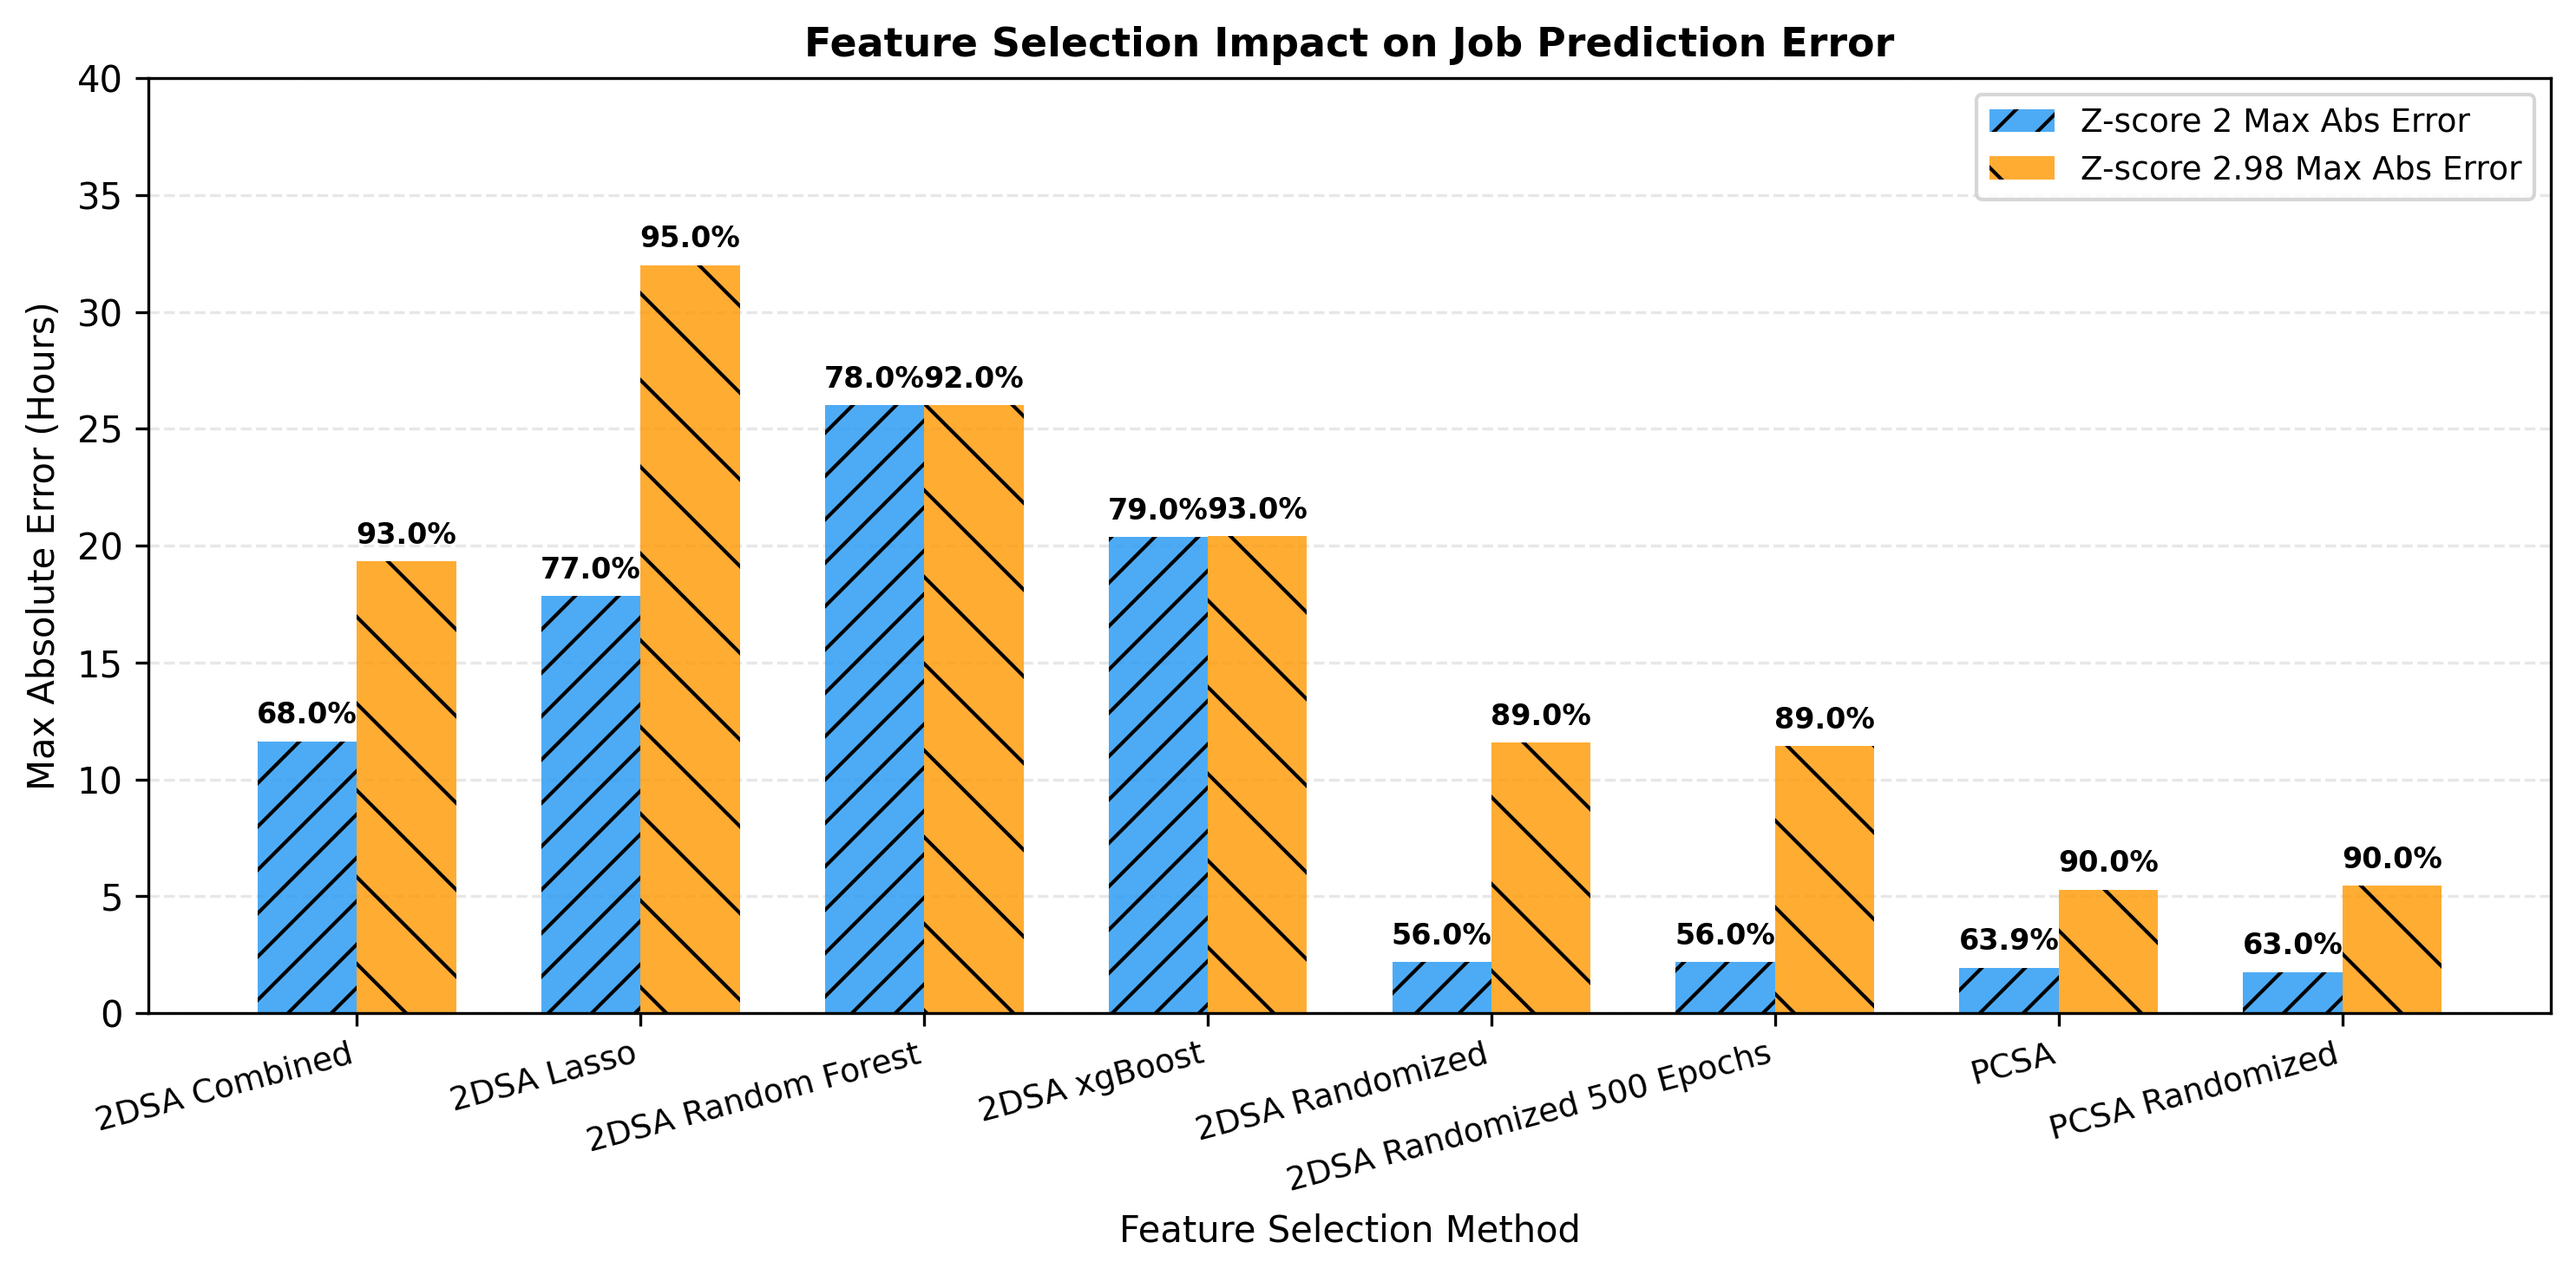
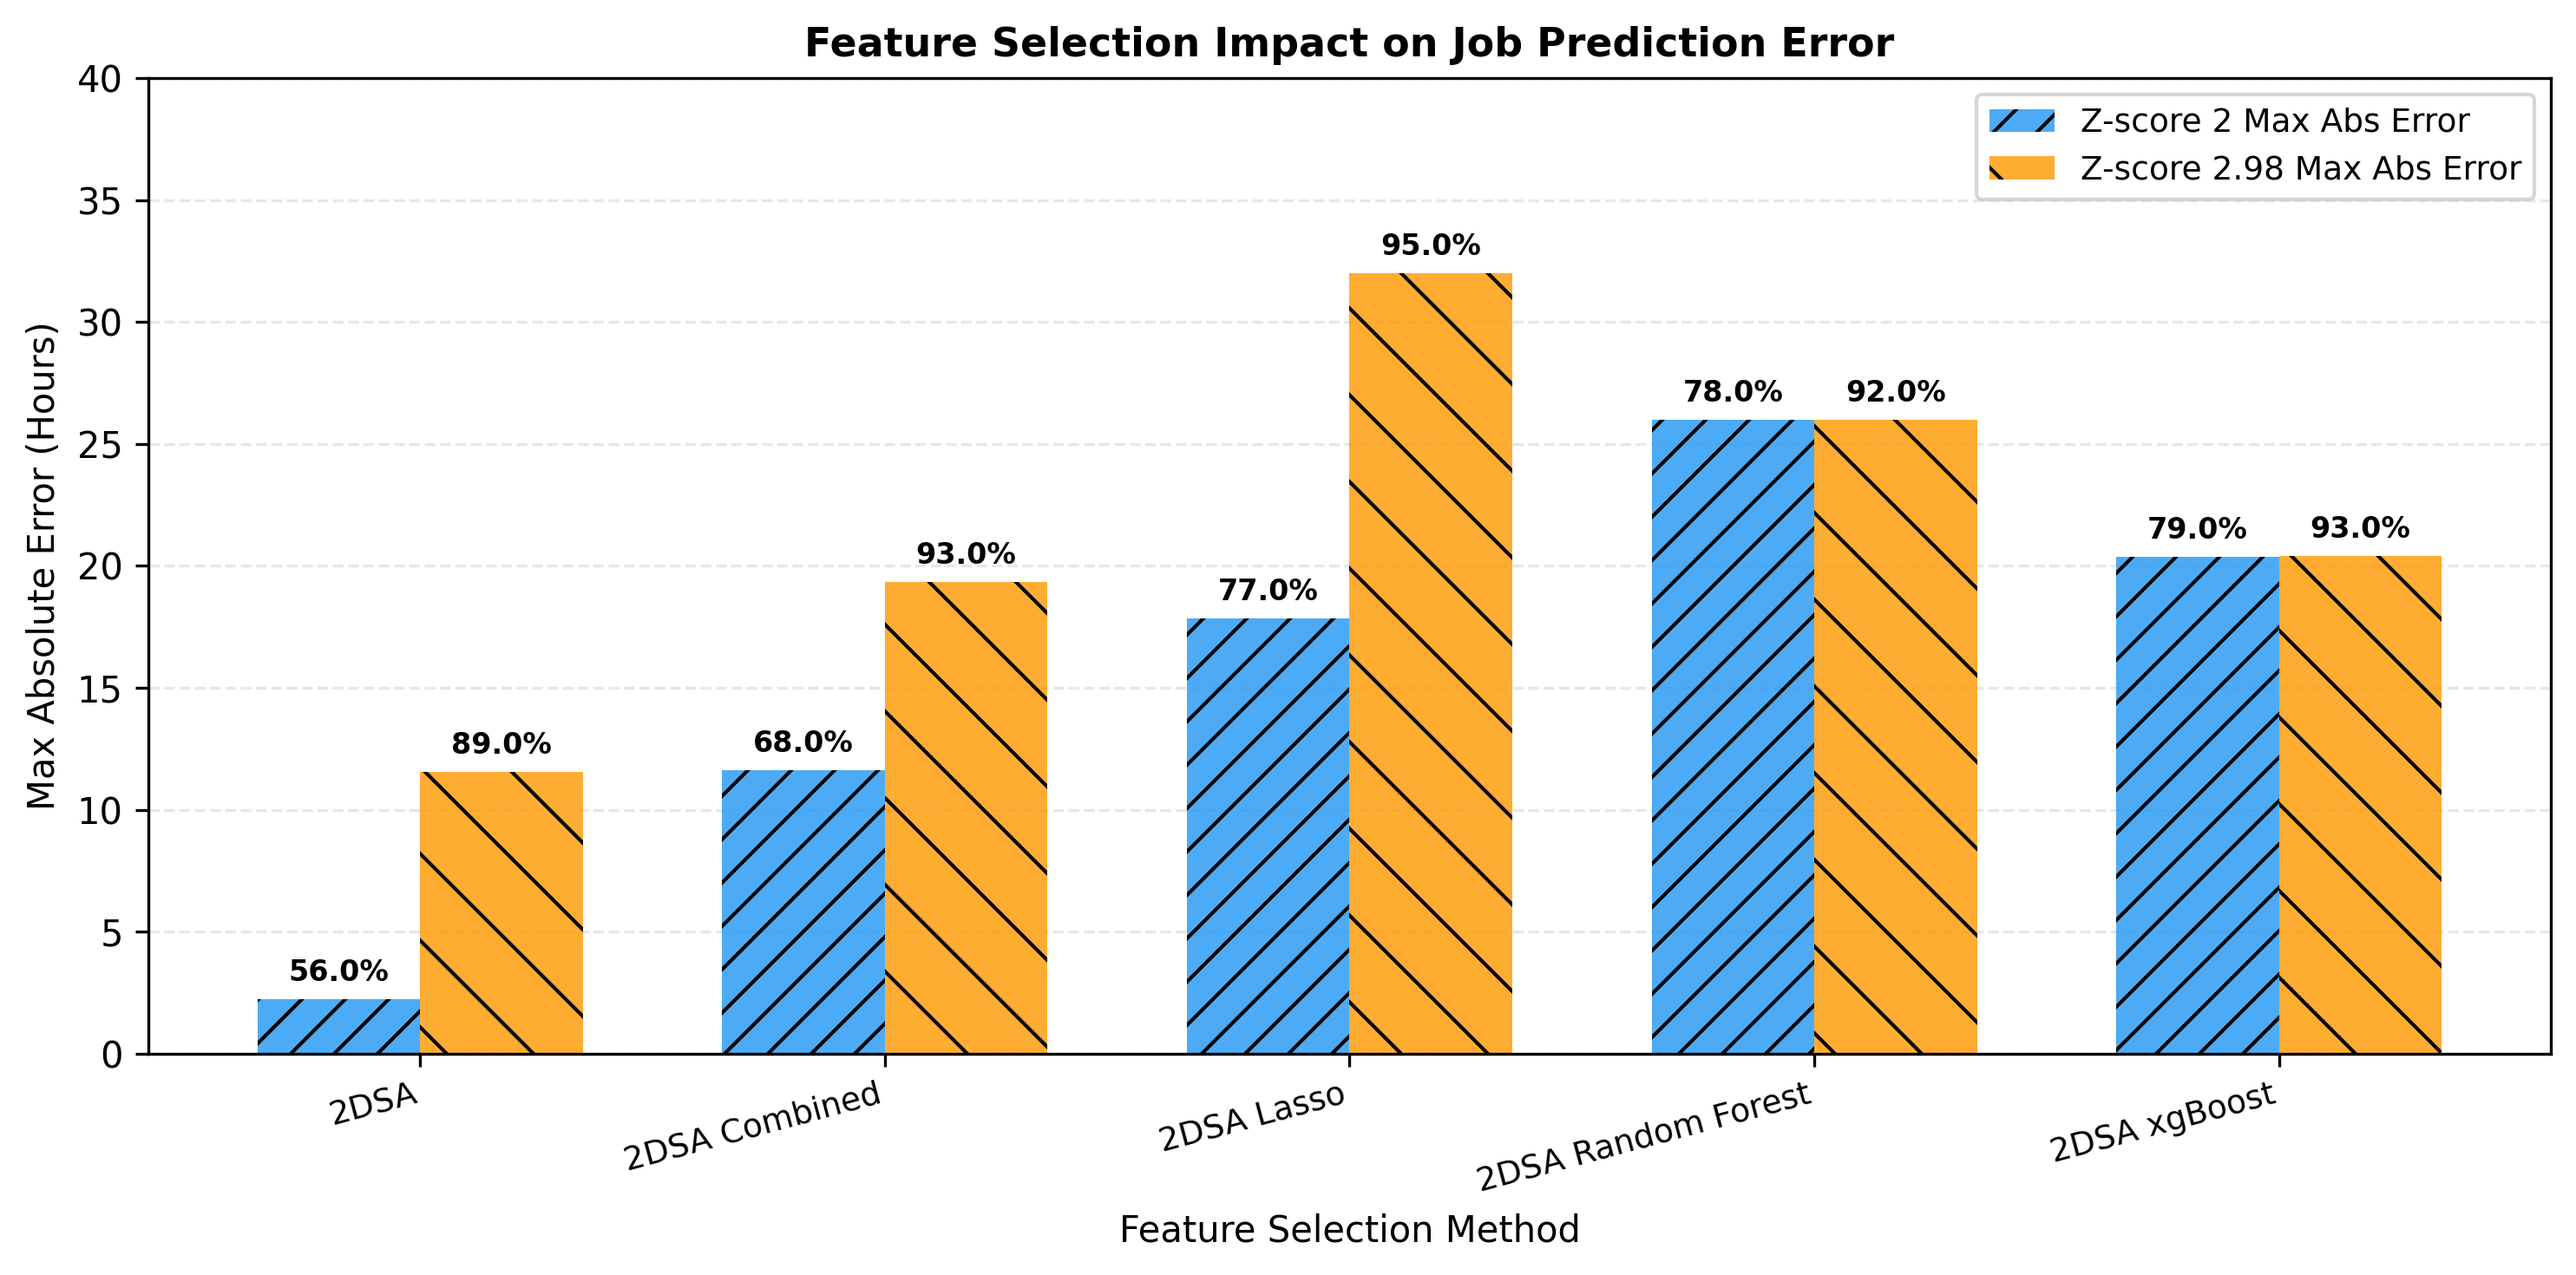
visualization creation and output

diff --git a/visual/visualization-run-metrics.py b/visual/visualization-run-metrics.py
@@ -4,11 +4,11 @@ import pandas as pd
 import re
 
 # Load data and skip description row only
-data_file = "data/run_metrics_final.csv"
+data_file = "data/feature_run_metrics.csv"
 df = pd.read_csv(data_file, encoding="ISO-8859-1", skiprows=[1])
 
 # Rename columns based on the structure
-df.columns = ['Run', 'Type',
+df.columns = ['Run',
               'z2_days', 'z2_hours', 'z2_minutes', 'z2_percentage',
               'z298_days', 'z298_hours', 'z298_minutes', 'z298_percentage']
 
